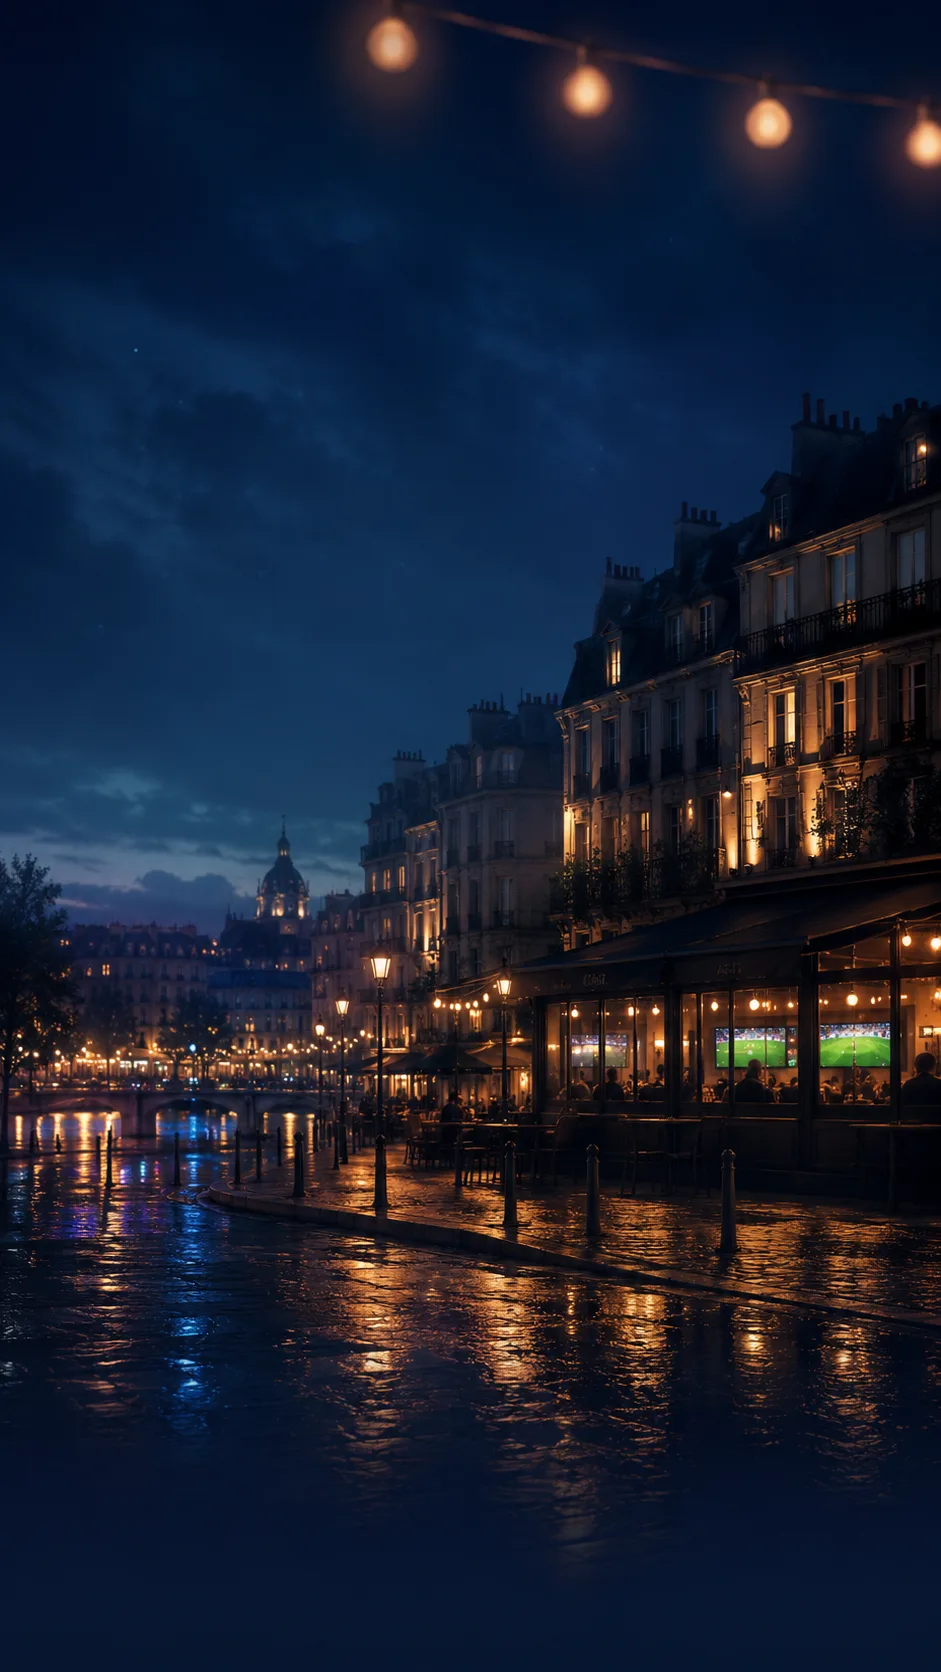
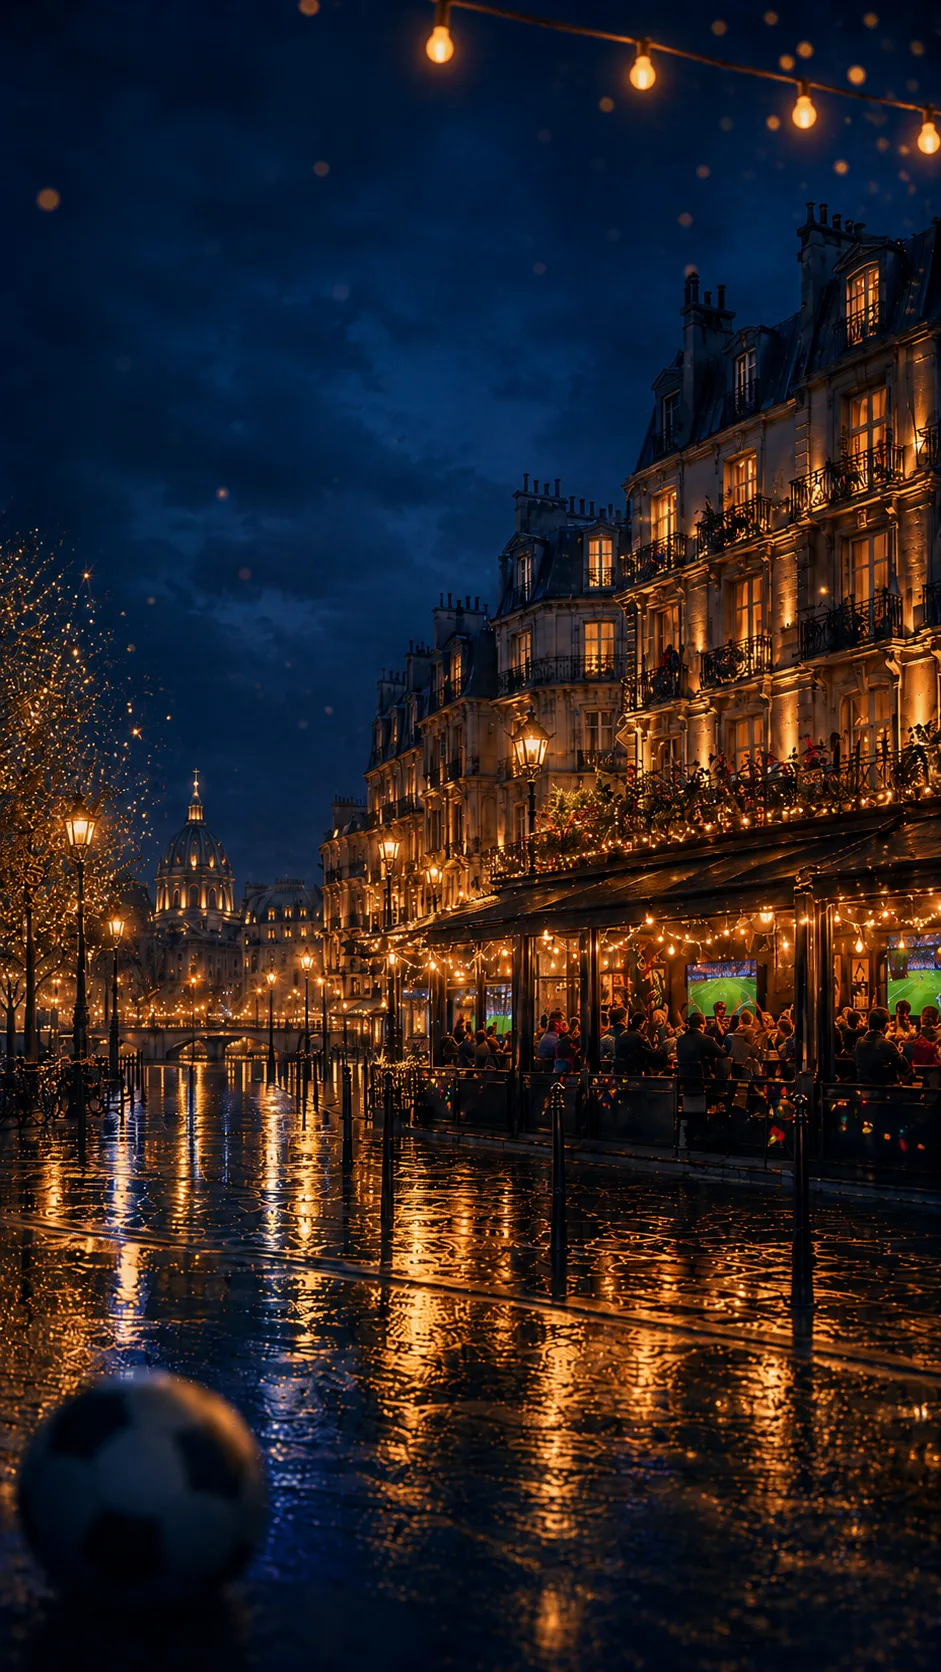
feat(accueil): nouvelle image de fond plus iconique + ajustement position
Remplace l'image de fond par une version v2 générée via DALL-E 3 avec
plus d'éléments narratifs : ballon de foot en avant-plan dans une flaque,
terrasse de bistrot animée avec personnes attablées et écrans diffusant
le match, dôme du Panthéon en arrière-plan, guirlandes de lampions et
réflexions plus prononcées sur les pavés mouillés. 266 ko en WebP
qualité 82.

Ajuste bg-position de center_65% à 30%_80% pour faire ressortir le
bistrot animé qui était partiellement occulté par le formulaire de
recherche. Sur desktop : façades + Panthéon à gauche, bistrot avec
gens et écrans à droite. Sur mobile : guirlandes en haut, bistrot
en bas, le formulaire au milieu sur l'overlay sombre.

diff --git a/web/src/pages/PageAccueil.tsx b/web/src/pages/PageAccueil.tsx
@@ -4,7 +4,7 @@ import { MoteurRecherche } from '../composants/MoteurRecherche';
 
 export function PageAccueil() {
   return (
-    <div className="min-h-screen bg-pageAccueil bg-cover bg-[center_65%] bg-no-repeat dark:bg-pageAccueilDark">
+    <div className="min-h-screen bg-pageAccueil bg-cover bg-[30%_80%] bg-no-repeat dark:bg-pageAccueilDark">
       <Entete />
       <section className="mx-auto max-w-3xl px-4 pb-16 pt-10 text-center text-white sm:pb-20 sm:pt-14">
         <span className="inline-flex items-center gap-2 rounded-full border border-white/20 bg-white/5 px-3 py-1 text-xs font-medium uppercase tracking-wider text-bleu-100">